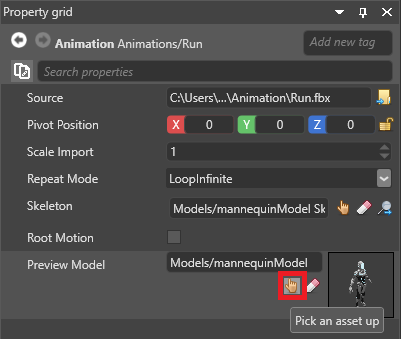
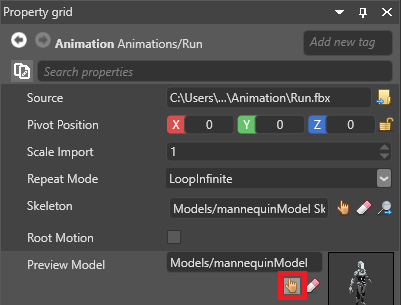
[Mass edit] update tooltip

diff --git a/en/manual/animation/preview-animations.md b/en/manual/animation/preview-animations.md
@@ -28,7 +28,7 @@ The animation preview uses the model selected in the **preview model** in the **
 
 2. In the **property grid** (on the right by default), under **Preview model**, click ![Hand icon](~/manual/game-studio/media/hand-icon.png) (**Select an asset**).
 
-    ![Pick an asset up](media/pick-an-asset-up.png)
+    ![Select an asset](media/pick-an-asset-up.png)
 
     The **Select an asset** window opens.
 

diff --git a/en/manual/ui/add-a-ui-to-a-scene.md b/en/manual/ui/add-a-ui-to-a-scene.md
@@ -18,7 +18,7 @@ After you create a [UI page](ui-pages.md), add it to the scene as a component on
 
     ![UI component](media/UI-component.png)
 
-3. Next to **Page**, click ![Hand icon](~/manual/game-studio/media/hand-icon.png) (**Pick an asset up**).
+3. Next to **Page**, click ![Hand icon](~/manual/game-studio/media/hand-icon.png) (**Select an asset**).
 
     The **asset picker** opens.
 
